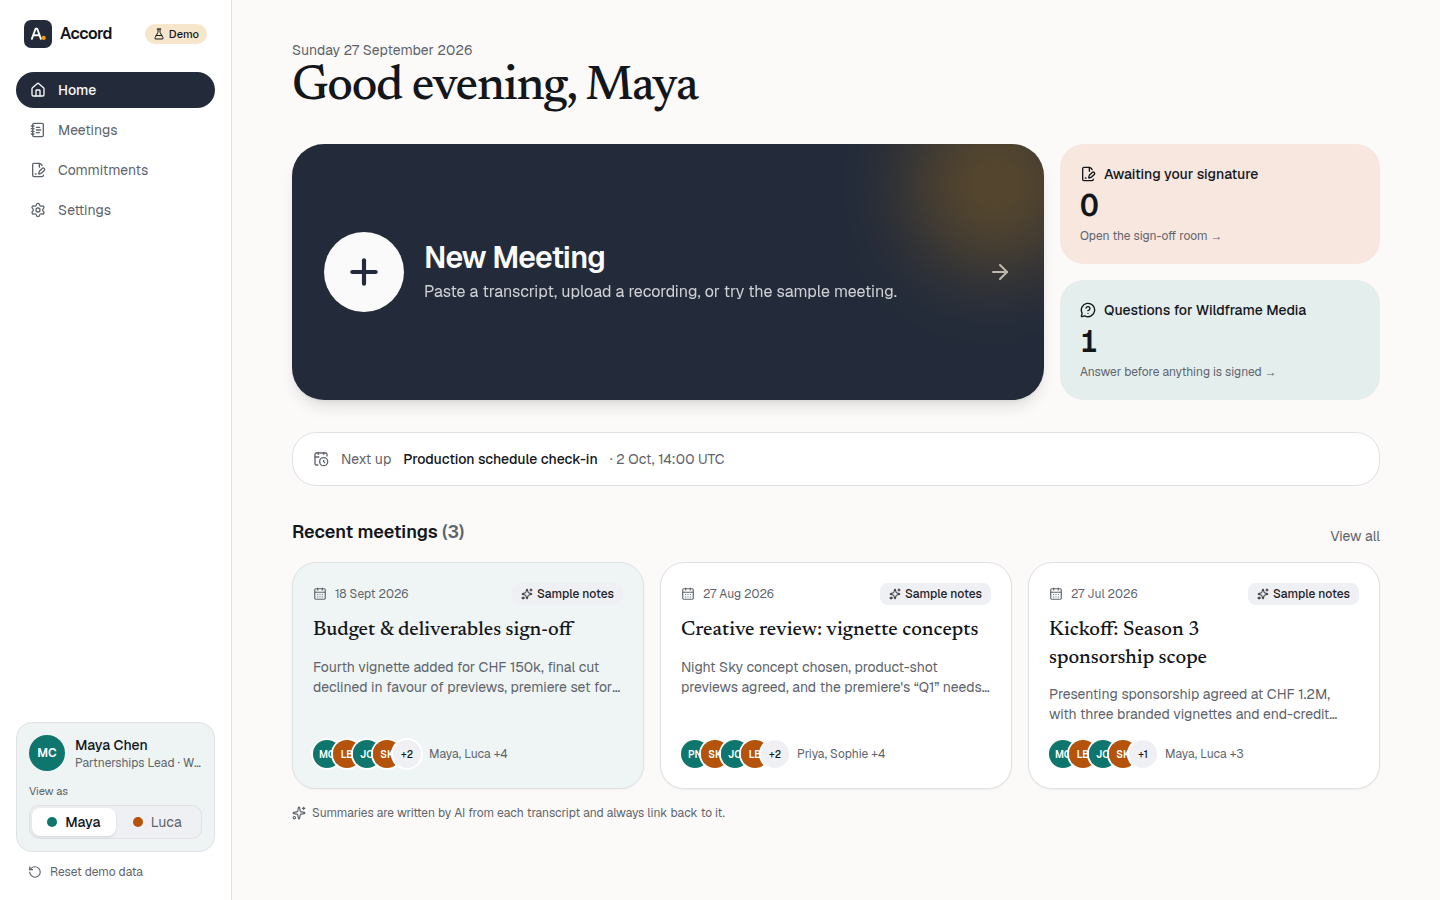
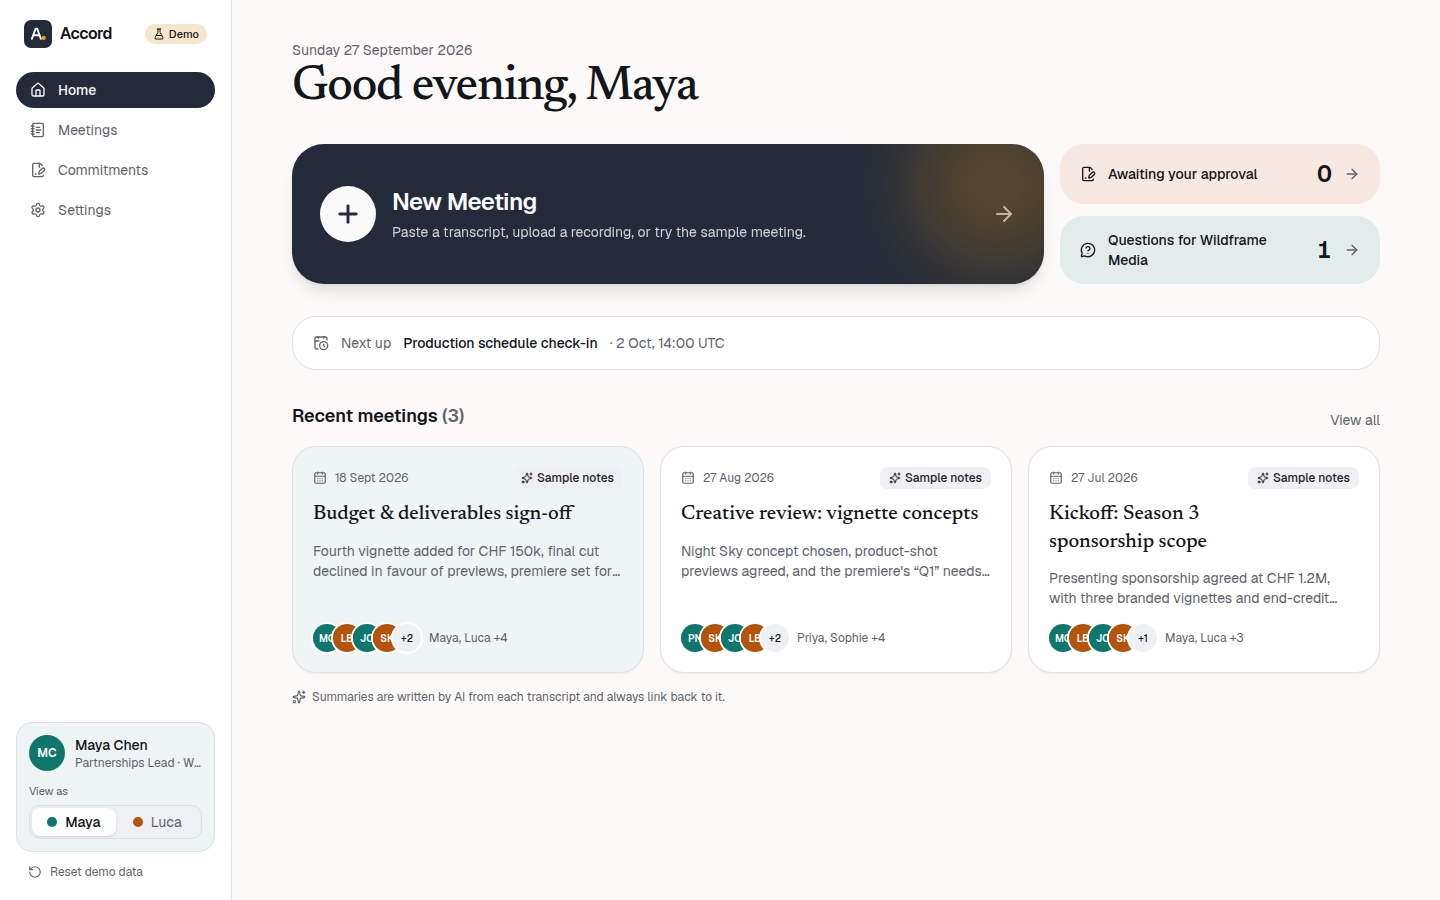
Make View Analysis the headline action; tone down the New Meeting card
- Meeting page: View Analysis is now a large two-line pill (icon, label, and how many
  decisions are waiting for you), full width on phones, above Copy notes
- Home: New Meeting stays the primary card but is about half as tall, with compact
  one-line stat cards beside it
- Shared boardItems() so the button's count matches the Analysis page

Claude-Session: https://claude.ai/code/session_01FjYRV2ANa5BNthhquteNeU

diff --git a/src/components/workspace/home-dashboard.tsx b/src/components/workspace/home-dashboard.tsx
@@ -40,33 +40,25 @@ export function HomeDashboard() {
         </h1>
       </header>
 
-      <div className="grid gap-4 lg:grid-cols-[minmax(0,1fr)_320px]">
+      <div className="grid items-stretch gap-4 lg:grid-cols-[minmax(0,1fr)_320px]">
         <Link
           href="/meetings/new"
-          className="group relative flex min-h-40 items-center gap-5 overflow-hidden rounded-[2rem] bg-primary p-6 text-primary-foreground shadow-lg transition-transform hover:-translate-y-0.5 focus-visible:ring-4 focus-visible:ring-ring/50 focus-visible:outline-none md:p-8"
+          className="group relative flex min-h-28 items-center gap-4 overflow-hidden rounded-[2rem] bg-primary p-5 text-primary-foreground shadow-lg transition-transform hover:-translate-y-0.5 focus-visible:ring-4 focus-visible:ring-ring/50 focus-visible:outline-none md:min-h-32 md:px-7"
         >
-          <span className="flex size-16 shrink-0 items-center justify-center rounded-full bg-primary-foreground text-primary transition-transform group-hover:scale-105 md:size-20">
-            <Plus className="size-8 md:size-10" strokeWidth={2.5} />
+          <span className="flex size-12 shrink-0 items-center justify-center rounded-full bg-primary-foreground text-primary transition-transform group-hover:scale-105 md:size-14">
+            <Plus className="size-6 md:size-7" strokeWidth={2.5} />
           </span>
           <span className="flex flex-col gap-1">
-            <span className="text-2xl font-semibold tracking-tight md:text-3xl">New Meeting</span>
-            <span className="text-sm opacity-80 md:text-base">Paste a transcript, upload a recording, or try the sample meeting.</span>
+            <span className="text-xl font-semibold tracking-tight md:text-2xl">New Meeting</span>
+            <span className="text-sm opacity-80">Paste a transcript, upload a recording, or try the sample meeting.</span>
           </span>
           <ArrowRight className="ml-auto hidden size-6 opacity-70 transition-transform group-hover:translate-x-1 sm:block" />
           <span aria-hidden className="pointer-events-none absolute -top-12 -right-10 size-44 rounded-full bg-[#f59e0b] opacity-25 blur-2xl" />
         </Link>
 
-        <div className="grid grid-cols-2 gap-4 lg:grid-cols-1">
-          <Link href="/demo" className="flex flex-col gap-1 rounded-3xl p-5 transition-shadow hover:shadow-md" style={{ backgroundColor: `color-mix(in oklch, ${SIDES.B.color} 14%, var(--card))` }}>
-            <span className="flex items-center gap-2 text-sm font-medium"><FileSignature className="size-4" /> Awaiting your signature</span>
-            <span className="text-3xl font-semibold tabular-nums">{awaiting}</span>
-            <span className="text-xs text-muted-foreground">Review and approve →</span>
-          </Link>
-          <Link href="/demo" className="flex flex-col gap-1 rounded-3xl p-5 transition-shadow hover:shadow-md" style={{ backgroundColor: `color-mix(in oklch, ${SIDES.A.color} 12%, var(--card))` }}>
-            <span className="flex items-center gap-2 text-sm font-medium"><MessageCircleQuestion className="size-4" /> Questions for {side.label}</span>
-            <span className="text-3xl font-semibold tabular-nums">{questions}</span>
-            <span className="text-xs text-muted-foreground">Answer before anything is signed →</span>
-          </Link>
+        <div className="grid gap-3 sm:grid-cols-2 lg:grid-cols-1">
+          <StatCard href="/demo" color={SIDES.B.color} icon={FileSignature} label="Awaiting your approval" value={awaiting} />
+          <StatCard href="/demo" color={SIDES.A.color} icon={MessageCircleQuestion} label={`Questions for ${side.label}`} value={questions} />
         </div>
       </div>
 
@@ -96,5 +88,22 @@ export function HomeDashboard() {
         </p>
       </section>
     </div>
+  );
+}
+
+function StatCard({ href, color, icon: Icon, label, value }: {
+  href: string; color: string; icon: typeof FileSignature; label: string; value: number;
+}) {
+  return (
+    <Link
+      href={href}
+      className="flex items-center gap-3 rounded-3xl px-5 py-3.5 transition-shadow hover:shadow-md"
+      style={{ backgroundColor: `color-mix(in oklch, ${color} 13%, var(--card))` }}
+    >
+      <Icon className="size-4 shrink-0" />
+      <span className="flex-1 text-sm font-medium">{label}</span>
+      <span className="text-2xl font-semibold tabular-nums">{value}</span>
+      <ArrowRight className="size-4 text-muted-foreground" />
+    </Link>
   );
 }

diff --git a/src/components/meetings/meeting-page.tsx b/src/components/meetings/meeting-page.tsx
@@ -3,13 +3,14 @@
 import Link from "next/link";
 import { useMemo, useRef, useState } from "react";
 import {
-  ArrowLeft, BarChart3, CalendarDays, Check, Copy, Hash, Info, ListChecks, Plus, Search, Sparkles, UserRound, X,
+  ArrowLeft, ArrowRight, BarChart3, CalendarDays, Check, Copy, Hash, Info, ListChecks, Plus, Search, Sparkles, UserRound, X,
 } from "lucide-react";
 import { Avatar } from "@/components/ui/avatar";
 import { Button } from "@/components/ui/button";
 import { Input } from "@/components/ui/input";
 import { useDemo } from "@/components/demo/demo-provider";
 import { addCustomChip, removeCustomChip } from "@/lib/meetings/actions";
+import { boardItems, groupFor } from "@/lib/demo/approvals";
 import { chipRegex, countMatches, fmtClock, matchLines, splitMatches } from "@/lib/meetings/highlight";
 import { cn, fmtDate } from "@/lib/utils";
 import { AvatarStack, colorFor, NotesSourceBadge } from "./meeting-bits";
@@ -111,7 +112,7 @@ function MeetingView({ m, setState }: { m: MeetingRecord; setState: ReturnType<t
               <NotesSourceBadge m={m} />
             </div>
           </div>
-          <div className="flex flex-wrap items-center gap-2">
+          <div className="flex flex-col-reverse gap-2 sm:flex-row sm:items-center">
             <Button
               variant="outline"
               className="rounded-full"
@@ -123,15 +124,7 @@ function MeetingView({ m, setState }: { m: MeetingRecord; setState: ReturnType<t
             >
               {copied ? <Check /> : <Copy />} {copied ? "Copied" : "Copy notes"}
             </Button>
-            {m.analysisHref ? (
-              <Button asChild size="lg" className="rounded-full px-6">
-                <Link href={m.analysisHref}><BarChart3 /> View Analysis</Link>
-              </Button>
-            ) : (
-              <Button size="lg" className="rounded-full px-6" disabled title="Ambiguity analysis and sign-off are available for the sample meeting in demo mode.">
-                <BarChart3 /> View Analysis
-              </Button>
-            )}
+            <AnalysisButton href={m.analysisHref} />
           </div>
         </div>
         {m.notice && (
@@ -263,6 +256,37 @@ function MeetingView({ m, setState }: { m: MeetingRecord; setState: ReturnType<t
         </section>
       </div>
     </div>
+  );
+}
+
+/** The main call to action on a meeting: open its Analysis (approve / push back). */
+function AnalysisButton({ href }: { href: string | null }) {
+  const { state, persona } = useDemo();
+  const waiting = href ? boardItems(state, "meeting").filter((i) => groupFor(state, i, persona) === "needs_you").length : 0;
+  const body = (
+    <>
+      <span className="flex size-11 shrink-0 items-center justify-center rounded-full bg-primary-foreground text-primary transition-transform group-hover:scale-105">
+        <BarChart3 className="size-5" />
+      </span>
+      <span className="flex flex-col text-left leading-tight">
+        <span className="text-lg font-semibold">View Analysis</span>
+        <span id="analysis-hint" className="text-xs font-normal opacity-80">
+          {href ? (waiting ? `${waiting} decision${waiting === 1 ? "" : "s"} waiting for you` : "Approve & push back") : "Available for the sample meeting"}
+        </span>
+      </span>
+      <ArrowRight className="ml-auto size-5 opacity-70 transition-transform group-hover:translate-x-0.5 sm:ml-2" />
+      <span aria-hidden className="pointer-events-none absolute -top-8 -right-6 size-24 rounded-full bg-[#f59e0b] opacity-30 blur-2xl" />
+    </>
+  );
+  const cls = "group relative flex min-h-16 w-full items-center gap-3 overflow-hidden rounded-full bg-primary py-2.5 pr-6 pl-2.5 text-primary-foreground shadow-lg transition-transform sm:w-auto sm:min-w-72";
+  return href ? (
+    <Link href={href} aria-label="View Analysis" aria-describedby="analysis-hint" className={cn(cls, "hover:-translate-y-0.5 focus-visible:ring-4 focus-visible:ring-ring/50 focus-visible:outline-none")}>
+      {body}
+    </Link>
+  ) : (
+    <button type="button" disabled aria-label="View Analysis" aria-describedby="analysis-hint" className={cn(cls, "cursor-not-allowed opacity-60")} title="Analysis and sign-off are available for the sample meeting in demo mode.">
+      {body}
+    </button>
   );
 }
 

diff --git a/tests/e2e/meetings.spec.ts b/tests/e2e/meetings.spec.ts
@@ -10,7 +10,7 @@ test("home: greeting, big New Meeting button, recent meeting cards open the meet
   const cta = page.getByRole("link", { name: /New Meeting/ }).first();
   await expect(cta).toBeVisible();
   const box = await cta.boundingBox();
-  expect(box!.height).toBeGreaterThan(120);
+  expect(box!.height).toBeGreaterThanOrEqual(112); // still the most prominent thing on Home
   for (const nav of ["Home", "Meetings", "Commitments", "Settings"]) {
     await expect(page.getByRole("navigation", { name: "Main" }).first().getByRole("link", { name: nav })).toBeVisible();
   }
@@ -47,7 +47,12 @@ test("meeting page: chips highlight transcript and notes, timestamps scroll, cus
   await page.reload();
   await expect(page.getByRole("button", { name: /^Geneva · \d+$/ })).toBeVisible(); // custom chips persist
 
-  await page.getByRole("link", { name: "View Analysis" }).click();
+  const analysis = page.getByRole("link", { name: "View Analysis" });
+  await expect(analysis).toContainText("decisions waiting for you");
+  const size = await analysis.boundingBox();
+  expect(size!.height).toBeGreaterThanOrEqual(64); // the biggest action on the meeting page
+  expect(size!.width).toBeGreaterThanOrEqual(280);
+  await analysis.click();
   await expect(page).toHaveURL(/\/demo$/);
   await expect(page.getByRole("region", { name: "Needs your decision" })).toBeVisible();
 });

diff --git a/src/components/approvals/approval-board.tsx b/src/components/approvals/approval-board.tsx
@@ -3,7 +3,7 @@
 import Link from "next/link";
 import { ArrowLeft, ChevronDown } from "lucide-react";
 import { useDemo } from "@/components/demo/demo-provider";
-import { approvableItems, approvalStatus, groupFor, type ApprovalStatus, type Group } from "@/lib/demo/approvals";
+import { approvalStatus, boardItems, groupFor, type ApprovalStatus, type Group } from "@/lib/demo/approvals";
 import { DEMO_PEOPLE, SIDES } from "@/lib/demo/people";
 import { cn } from "@/lib/utils";
 import { CommitmentCard, StatusTag } from "./commitment-card";
@@ -20,9 +20,7 @@ export function ApprovalBoard({ scope }: { scope: "meeting" | "all" }) {
   const { state, persona, ready } = useDemo();
   const me = DEMO_PEOPLE[persona];
   const other = SIDES[me.side === "A" ? "B" : "A"];
-  const items = approvableItems(state).filter(
-    (i) => scope === "all" || i.meeting === "m3" || !["committed", "declined"].includes(i.status),
-  );
+  const items = boardItems(state, scope);
   const byGroup = (g: Group) => items.filter((i) => groupFor(state, i, persona) === g).sort(byDue);
   const needsYou = byGroup("needs_you");
   const waiting = byGroup("waiting");

diff --git a/src/lib/demo/approvals.ts b/src/lib/demo/approvals.ts
@@ -22,6 +22,11 @@ export function approvableItems(state: DemoState): DemoItem[] {
   return state.items.filter((i) => APPROVABLE.has(i.kind) && !HIDDEN.has(i.id));
 }
 
+/** Items on the Analysis page ("meeting": the sample meeting plus anything still open) or Commitments ("all"). */
+export function boardItems(state: DemoState, scope: "meeting" | "all"): DemoItem[] {
+  return approvableItems(state).filter((i) => scope === "all" || i.meeting === "m3" || !["committed", "declined"].includes(i.status));
+}
+
 export function approvalStatus(state: DemoState, item: DemoItem): ApprovalStatus {
   if (item.status === "committed") return "approved";
   if (item.status === "declined" || openClarifications(state, item.id).length > 0) return "pushed_back";
